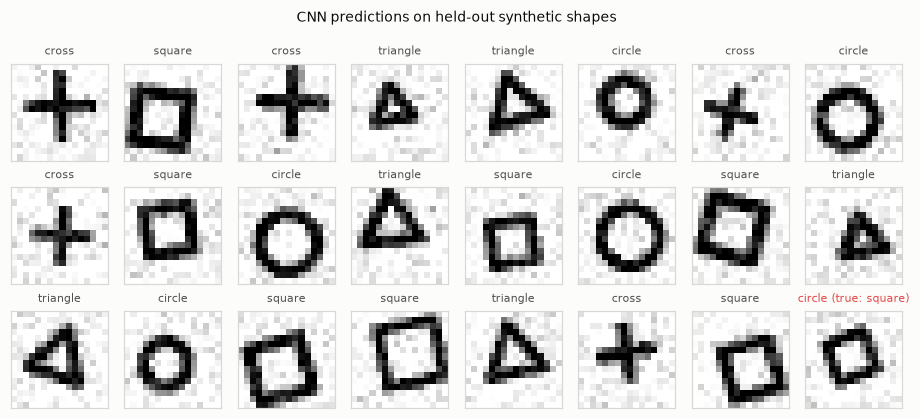
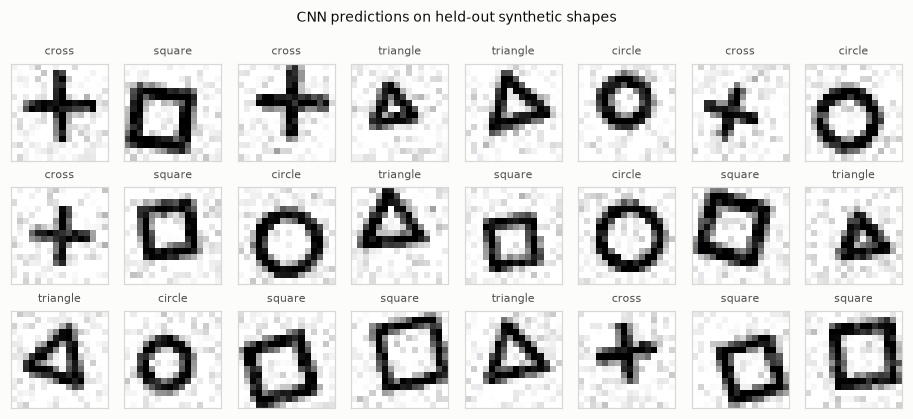
feat(examples): batch normalisation in the shapes CNN
shapes_cnn.py gains --arch {plain, bn, residual}; the default, bn, adds
BatchNorm2d after each convolution. python examples/shapes_cnn.py
--epochs 6 --arch A --seed S on seeds 0-2 gives:

  plain     37,892 params  epoch 1: 0.857 0.806 0.874  epoch 6: 0.998 0.992 0.997
  bn        37,988 params  epoch 1: 0.979 0.943 0.968  epoch 6: 1.000 1.000 1.000
  residual  61,316 params  epoch 1: 0.740 0.993 0.961  epoch 6: 1.000 1.000 1.000

(test accuracy on 1,000 held-out images). Six epochs take 8.5-9.4 s
(plain), 13.2-14.8 s (bn) and 76-84 s (residual) on a loaded 4-vCPU VM,
so the residual block, which adds nothing over batch norm here, is kept
only as an option. The prediction grid is regenerated with the new
default and has no mistakes left to show.

diff --git a/examples/shapes_cnn.py b/examples/shapes_cnn.py
@@ -31,19 +31,45 @@ def parse_args() -> argparse.Namespace:
     parser.add_argument("--test-size", type=int, default=1000)
     parser.add_argument("--batch-size", type=int, default=64)
     parser.add_argument("--lr", type=float, default=3e-3)
+    parser.add_argument("--arch", choices=["plain", "bn", "residual"], default="bn")
     parser.add_argument("--plot", type=Path, default=DEFAULT_PLOT, help="output PNG path")
     parser.add_argument("--no-plot", action="store_true", help="skip the prediction grid")
     return parser.parse_args()
 
 
-def build_model() -> nn.Module:
+class ResidualBlock(nn.Module):
+    """``relu(x + bn(conv(relu(bn(conv(x))))))`` with 3x3 convolutions that keep the shape."""
+
+    def __init__(self, channels: int) -> None:
+        super().__init__()
+        self.conv1 = nn.Conv2d(channels, channels, 3, padding=1)
+        self.bn1 = nn.BatchNorm2d(channels)
+        self.conv2 = nn.Conv2d(channels, channels, 3, padding=1)
+        self.bn2 = nn.BatchNorm2d(channels)
+
+    def forward(self, x: tg.Tensor) -> tg.Tensor:
+        return tg.relu(x + self.bn2(self.conv2(tg.relu(self.bn1(self.conv1(x))))))
+
+
+def build_model(arch: str = "bn") -> nn.Module:
+    """``plain``: the v0.1.0 network; ``bn``: batch norm after each convolution (default);
+    ``residual``: ``bn`` plus a residual block at each resolution.
+
+    On seeds 0-2 ``bn`` reaches 94-98% test accuracy after one epoch and 100% after six,
+    against 81-87% and 99.2-99.8% for ``plain``; ``residual`` also ends at 100% but each
+    epoch takes about 5x as long as with ``bn`` (see the README).
+    """
+    layers: list[nn.Module] = []
+    for c_in, c_out in ((1, 16), (16, 32)):  # 16x16 -> 8x8 -> 4x4
+        layers.append(nn.Conv2d(c_in, c_out, 3, padding=1))
+        if arch != "plain":
+            layers.append(nn.BatchNorm2d(c_out))
+        layers.append(nn.ReLU())
+        if arch == "residual":
+            layers.append(ResidualBlock(c_out))
+        layers.append(nn.MaxPool2d(2))
     return nn.Sequential(
-        nn.Conv2d(1, 16, 3, padding=1),  # 16x16
-        nn.ReLU(),
-        nn.MaxPool2d(2),  # 8x8
-        nn.Conv2d(16, 32, 3, padding=1),
-        nn.ReLU(),
-        nn.MaxPool2d(2),  # 4x4
+        *layers,
         nn.Flatten(),
         nn.Linear(32 * 4 * 4, 64),
         nn.ReLU(),
@@ -104,7 +130,7 @@ def main() -> None:
     tg.manual_seed(args.seed)
     x_train, y_train = make_shapes(args.train_size, seed=args.seed)
     x_test, y_test = make_shapes(args.test_size, seed=args.seed + 10_000)
-    model = build_model()
+    model = build_model(args.arch)
     opt = optim.Adam(model.parameters(), lr=args.lr)
     loader = DataLoader(x_train, y_train, batch_size=args.batch_size, shuffle=True, seed=args.seed)
     sched = optim.CosineWarmupLR(
